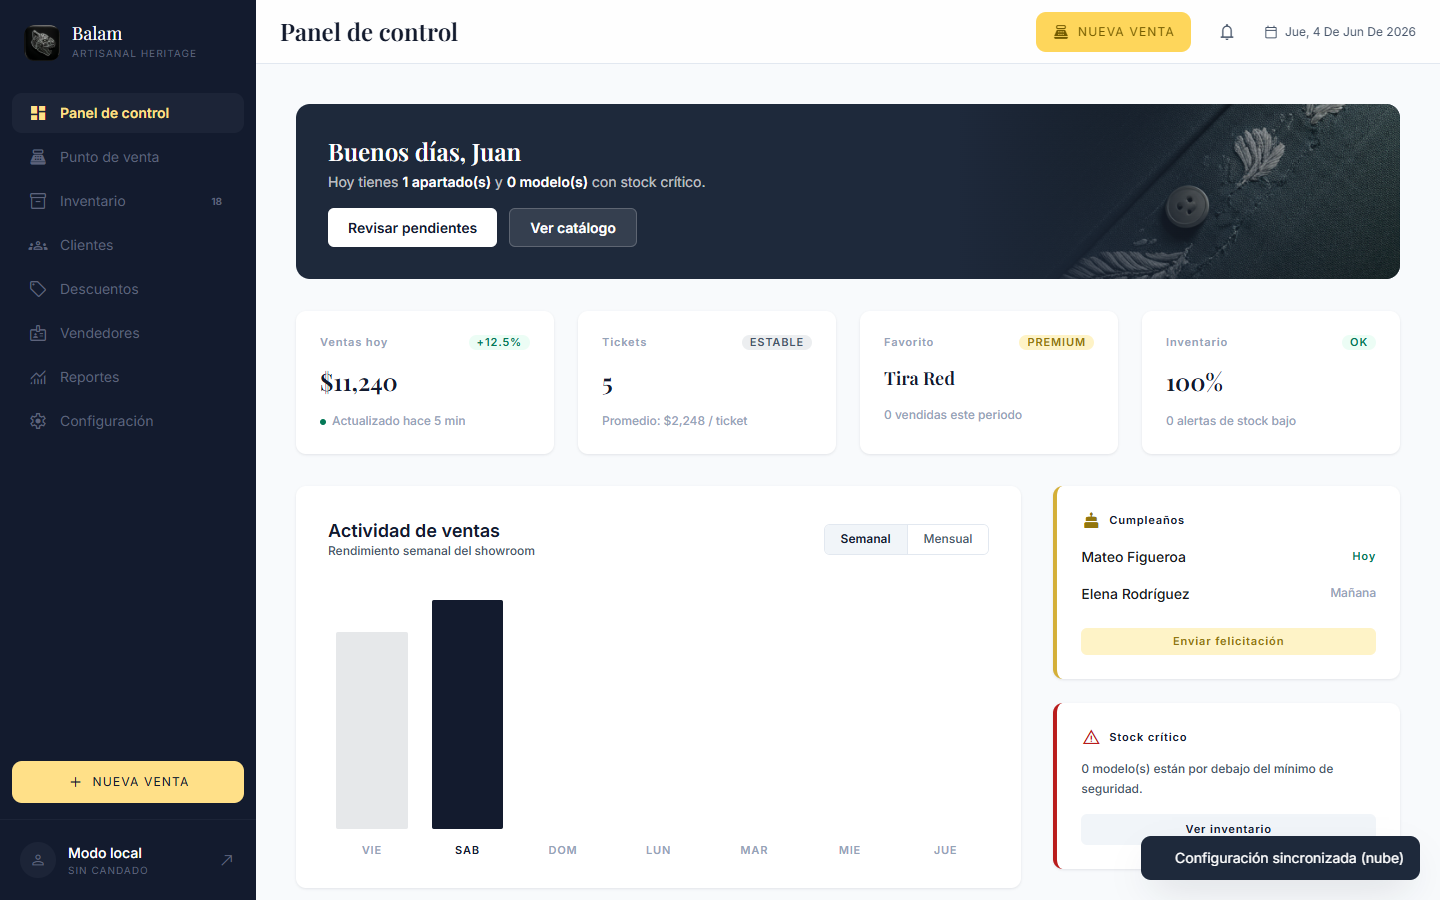
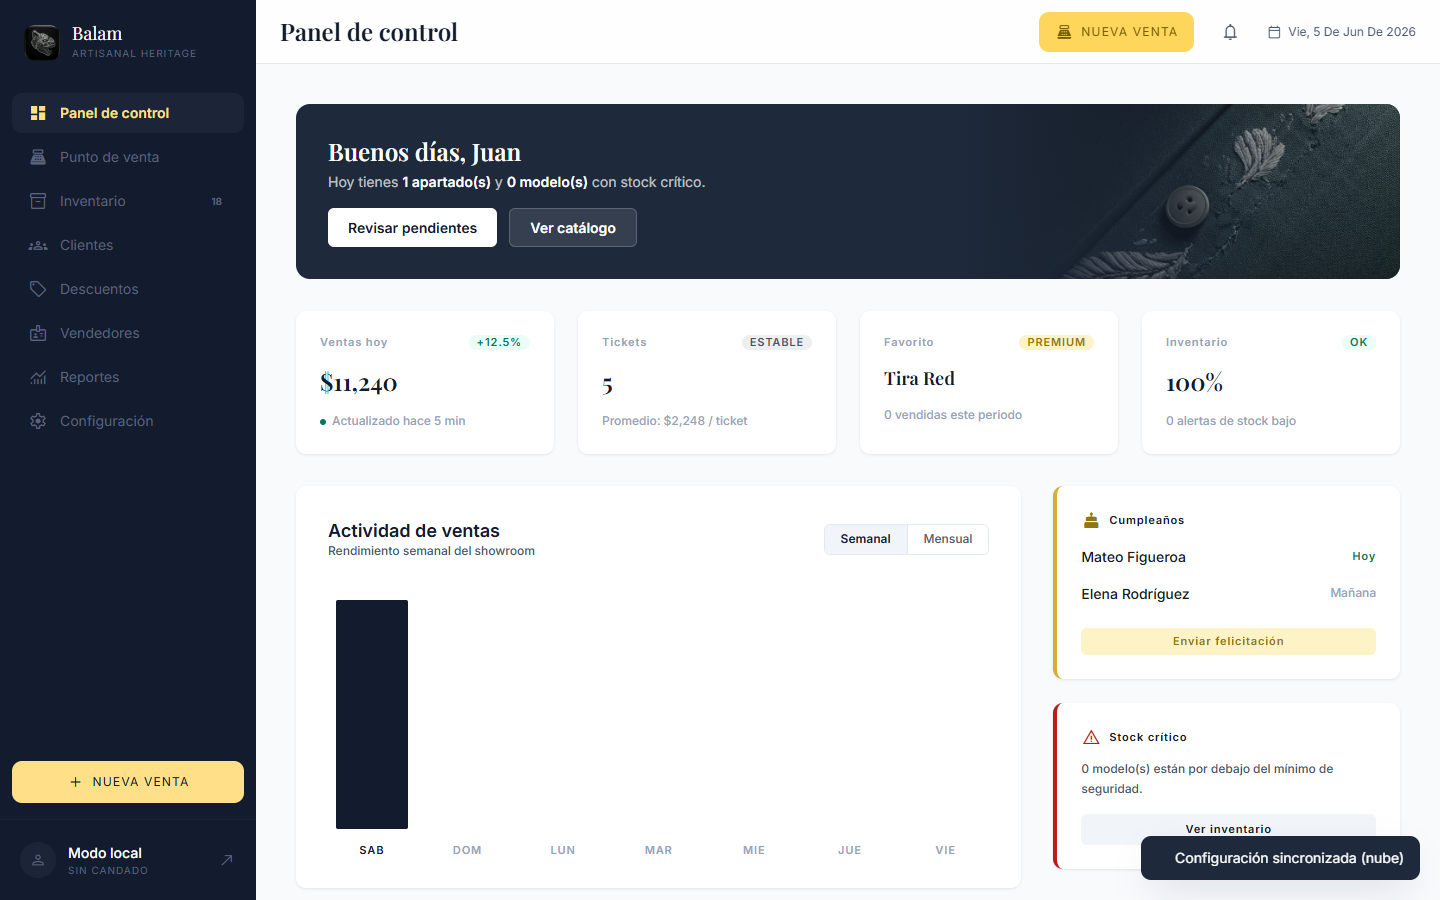
Comisiones: base neto/bruto configurable + liquidacion real + guards
Pantalla Configuracion > Vendedores > Comisiones: nuevo selector
"Base de calculo de la comision" (PRECIO NETO sin IVA | PRECIO BRUTO con IVA)
via componente CfgSeg. Ajuste commission.base (config.jsx, default 'neto').

#4 recordSale ahora normaliza el total a neto/bruto segun tax.included e
ivaPct y aplica el % del vendedor sobre la base elegida. Verificado:
neto = total/1.16 x pct, bruto = total x pct; identico en ambos modos de IVA.
#6 La venta guarda comision + comisionBase; SellerDetail muestra el monto
real guardado (no recalcula con el % actual). Refleja en sellers.jsx y
reports.jsx (leen comisionAcum, ya consistente).
#5 Guard meta=0: metaPct/metaHit evitan NaN/Infinity (admin y vendedores
sin meta muestran 0%).
#1 "Liquidar comision" ahora es real: D.liquidarComision pone comisionAcum
en 0, persiste y sincroniza; boton deshabilitado si no hay saldo; refresca
la pantalla. Antes solo mostraba un toast.

Pruebas: test-commission.mjs (10 asserts, formula neto/bruto bajo ambos IVA)
y e2e con recordSale real (neto 32.76, bruto 38.00, liquidacion a 0, guard
meta=0). Bundle offline reconstruido + index.html. Cloud sync neutralizado
en pruebas; commission.base en nube confirmado en 'neto'.

Pendiente (no quirurgico, diferido): #2 corte/reset mensual de
ventasMes/comisionAcum; #3 acreditar comision al pagar un apartado.

diff --git a/balam/sellers.jsx b/balam/sellers.jsx
@@ -17,11 +17,27 @@
     return hit ? hit.label : (roles.length ? roles[roles.length - 1].label : '—');
   };
 
+  // Avance de meta con guardia contra meta=0 (evita NaN/Infinity en admin y vendedores sin meta).
+  const metaPct = (s) => (Number(s.metaMes) > 0 ? Math.round((s.ventasMes / s.metaMes) * 100) : 0);
+  const metaHit = (s) => Number(s.metaMes) > 0 && s.ventasMes >= s.metaMes;
+  // Comisión de una venta atribuida: usa el monto guardado al cobrar (refleja la base neto/bruto y el %
+  // vigentes en ese momento); si es una venta vieja/sincronizada sin el dato, la estima con el % actual.
+  const saleComm = (v, s) => (v && v.comision != null ? Number(v.comision) : (Number(v.total) || 0) * (s.comisionPct || 0) / 100);
+
   function SellersScreen() {
     const [detail, setDetail] = useState(null);
     const [view, setView] = useState('grid');
+    const [, bump] = useState(0);
+    const refresh = () => bump(v => v + 1);
     const totalComision = D.sellers.reduce((a, s) => a + s.comisionAcum, 0);
     const totalVentas = D.sellers.reduce((a, s) => a + s.ventasMes, 0);
+
+    function liquidar(s) {
+      if (!window.confirm('¿Liquidar la comisión acumulada de ' + s.nombre + ' (' + fmt(s.comisionAcum) + ')? Quedará en cero.')) return;
+      const monto = D.liquidarComision(s.id);
+      setDetail(null); refresh();
+      toast('Comisión de ' + s.nombre + ' liquidada: ' + fmt(monto || 0), 'var(--accent)');
+    }
 
     return h('div', { className: 'flex-1 overflow-y-auto bg-background font-body text-on-surface' },
       h('div', { className: 'p-10 max-w-container-max mx-auto' }, [
@@ -68,16 +84,16 @@
               [['grid', 'Grid'], ['list', 'Lista']].map(([id, l]) => h('button', { key: id, className: 'px-3 py-1 text-caption uppercase tracking-tighter rounded ' + (view === id ? 'bg-primary text-on-primary' : 'text-on-surface-variant hover:bg-surface-container-low'), onClick: () => setView(id) }, l))),
           ]),
           view === 'grid'
-            ? h('div', { key: 'g', className: 'grid grid-cols-1 xl:grid-cols-2 gap-8' }, D.sellers.map(s => h(SellerCard, { key: s.id, s, onOpen: () => setDetail(s) })))
+            ? h('div', { key: 'g', className: 'grid grid-cols-1 xl:grid-cols-2 gap-8' }, D.sellers.map(s => h(SellerCard, { key: s.id, s, onOpen: () => setDetail(s), onLiquidar: () => liquidar(s) })))
             : h(SellerList, { key: 'l', sellers: D.sellers, onOpen: setDetail }),
         ]),
-        detail && h(SellerDetail, { key: 'd', s: detail, onClose: () => setDetail(null) }),
+        detail && h(SellerDetail, { key: 'd', s: detail, onClose: () => setDetail(null), onLiquidar: () => liquidar(detail) }),
       ]));
   }
 
-  function SellerCard({ s, onOpen }) {
-    const pct = Math.round((s.ventasMes / s.metaMes) * 100);
-    const meta = s.ventasMes >= s.metaMes;
+  function SellerCard({ s, onOpen, onLiquidar }) {
+    const pct = metaPct(s);
+    const meta = metaHit(s);
     return h('div', { className: 'bg-surface rounded-lg overflow-hidden transition-all duration-300 hover:-translate-y-0.5 ' + SHADOW + ' ' + SHADOW_HOVER }, [
       h('div', { key: 'b', className: 'p-8 flex items-start gap-8' }, [
         h('div', { key: 'av', className: 'w-24 h-32 flex items-center justify-center border border-outline-variant shrink-0 rounded', style: { background: s.color + '1a' } },
@@ -111,7 +127,7 @@
       ]),
       h('div', { key: 'f', className: 'px-8 py-4 bg-surface-container-low/50 border-t border-outline-variant flex justify-between items-center' }, [
         h('button', { key: 'd', className: 'text-on-surface-variant hover:text-primary text-overline uppercase tracking-[0.2em] flex items-center group', onClick: onOpen }, [h(MS, { key: 'i', name: 'arrowUpRight', size: 16, className: 'mr-2 group-hover:translate-x-0.5 transition-transform' }), 'Detalles de ventas']),
-        h('button', { key: 'l', className: 'text-primary text-overline uppercase tracking-[0.2em] font-bold hover:opacity-70', onClick: () => toast('Comisión de ' + s.nombre + ' liquidada', 'var(--accent)') }, 'Liquidar comisión'),
+        h('button', { key: 'l', className: 'text-primary text-overline uppercase tracking-[0.2em] font-bold hover:opacity-70 disabled:opacity-30 disabled:cursor-not-allowed', disabled: !(s.comisionAcum > 0), onClick: onLiquidar }, 'Liquidar comisión'),
       ]),
     ]);
   }
@@ -122,7 +138,7 @@
         h('thead', { key: 'h' }, h('tr', { className: 'bg-surface-container/50 border-b border-outline-variant' },
           [['Vendedor', ''], ['Comisión', ''], ['Ventas', 'text-right'], ['Meta', 'text-right'], ['', '']].map(([c, al], i) => h('th', { key: i, className: 'px-6 py-4 text-overline uppercase tracking-wider font-semibold text-on-surface-variant/80 ' + al }, c)))),
         h('tbody', { key: 'b', className: 'divide-y divide-outline-variant' }, sellers.map(s => {
-          const pct = Math.round((s.ventasMes / s.metaMes) * 100);
+          const pct = metaPct(s);
           return h('tr', { key: s.id, className: 'hover:bg-surface-container transition-colors cursor-pointer', onClick: () => onOpen(s) }, [
             h('td', { key: 'n', className: 'px-6 py-4' }, h('div', { className: 'flex items-center gap-3' }, [
               h('span', { key: 'a', className: 'w-9 h-9 rounded-full flex items-center justify-center text-overline font-bold text-white', style: { background: s.color } }, s.iniciales),
@@ -130,18 +146,18 @@
             ])),
             h('td', { key: 'c', className: 'px-6 py-4 text-body' }, s.comisionPct + '%'),
             h('td', { key: 'v', className: 'px-6 py-4 text-right font-headline text-base text-primary' }, fmt(s.ventasMes).replace('.00', '')),
-            h('td', { key: 'm', className: 'px-6 py-4 text-right text-body ' + (s.ventasMes >= s.metaMes ? 'text-primary font-semibold' : 'text-on-surface-variant') }, pct + '%'),
+            h('td', { key: 'm', className: 'px-6 py-4 text-right text-body ' + (metaHit(s) ? 'text-primary font-semibold' : 'text-on-surface-variant') }, pct + '%'),
             h('td', { key: 'x', className: 'px-6 py-4 text-right' }, h(MS, { name: 'chevRight', size: 18, className: 'text-on-surface-variant/40' })),
           ]);
         })),
       ]));
   }
 
-  function SellerDetail({ s, onClose }) {
+  function SellerDetail({ s, onClose, onLiquidar }) {
     const ventas = D.sales.filter(v => v.vendedor === s.nombre);
-    const pct = Math.round((s.ventasMes / s.metaMes) * 100);
+    const pct = metaPct(s);
     const footer = [
-      h('button', { key: 'l', className: 'inline-flex items-center gap-2 px-5 h-11 bg-primary text-on-primary text-caption font-bold uppercase tracking-widest rounded-lg hover:opacity-90 transition', onClick: () => toast('Comisión de ' + s.nombre + ' liquidada', 'var(--accent)') }, [h(MS, { key: 'i', name: 'cash', size: 16 }), 'Liquidar comisión']),
+      h('button', { key: 'l', className: 'inline-flex items-center gap-2 px-5 h-11 bg-primary text-on-primary text-caption font-bold uppercase tracking-widest rounded-lg hover:opacity-90 transition disabled:opacity-30 disabled:cursor-not-allowed', disabled: !(s.comisionAcum > 0), onClick: onLiquidar }, [h(MS, { key: 'i', name: 'cash', size: 16 }), 'Liquidar comisión']),
     ];
     return h(Modal, { title: 'Vendedor', onClose, footer, large: true }, [
       h('div', { key: 'h', className: 'flex items-center gap-4' }, [
@@ -163,7 +179,7 @@
           h('td', { key: 'f', className: 'px-3 py-2 font-medium text-primary' }, v.folio),
           h('td', { key: 'c', className: 'px-3 py-2 text-body' }, v.cliente),
           h('td', { key: 't', className: 'px-3 py-2 text-right font-headline text-body' }, fmt(v.total).replace('.00', '')),
-          h('td', { key: 'k', className: 'px-3 py-2 text-right font-headline text-body text-gold-text' }, fmt(v.total * s.comisionPct / 100).replace('.00', '')),
+          h('td', { key: 'k', className: 'px-3 py-2 text-right font-headline text-body text-gold-text' }, fmt(saleComm(v, s)).replace('.00', '')),
         ]))),
       ])) : h('div', { key: 'e', className: 'text-center text-on-surface-variant py-8' }, 'Sin ventas en el periodo'),
     ]);

diff --git a/balam/data.jsx b/balam/data.jsx
@@ -259,16 +259,31 @@
       const c = clients.find(x => x.id === client.id);
       if (c) { c.compras = (c.compras || 0) + 1; c.total = (c.total || 0) + total; c.ultima = fecha.slice(0, 10); saveClients(); }
     }
-    // 3) Vendedores (reparto de venta y comisión)
+    // 3) Vendedores (reparto de venta y comisión).
+    //    Base de comisión configurable (commission.base): 'neto' = sin IVA, 'bruto' = con IVA.
+    //    `total` puede incluir o no IVA según tax.included → lo normalizamos a neto/bruto antes de aplicar el %.
     const ids = (sellerIds && sellerIds.length) ? sellerIds : [];
+    let comisionVenta = 0;
     if (cobrada && ids.length) {
       const share = total / ids.length;
+      const ivaPct = Number(window.CONFIG.get('tax.ivaPct')) || 0;
+      const incl = !!window.CONFIG.get('tax.included');
+      const neto = incl ? share / (1 + ivaPct / 100) : share;
+      const bruto = incl ? share : share * (1 + ivaPct / 100);
+      const base = window.CONFIG.get('commission.base') === 'bruto' ? bruto : neto;
       ids.forEach(id => {
         const s = sellers.find(x => x.id === id);
-        if (s) { s.ventasMes = (s.ventasMes || 0) + share; s.ventasNum = (s.ventasNum || 0) + 1; s.comisionAcum = (s.comisionAcum || 0) + share * (s.comisionPct || 0) / 100; }
+        if (s) {
+          const c = base * (s.comisionPct || 0) / 100;
+          comisionVenta += c;
+          s.ventasMes = (s.ventasMes || 0) + share;
+          s.ventasNum = (s.ventasNum || 0) + 1;
+          s.comisionAcum = (s.comisionAcum || 0) + c;
+        }
       });
       saveSellers();
     }
+    comisionVenta = Math.round(comisionVenta * 100) / 100;
     // 4) Registro de venta (al frente = más reciente). Precio cobrado = con descuentos del POS.
     const primary = ids.map(id => (sellers.find(x => x.id === id) || {}).nombre).filter(Boolean);
     const unitOf = l => (window.PROMOS ? window.PROMOS.lineUnit(l.p, l.talla).unit : (Number(l.p.precio) || 0));
@@ -277,12 +292,24 @@
       folio, fecha, cliente: client ? client.nombre : 'Público en general',
       vendedor: primary[0] || '—', vendedores: ids.slice(),
       items: itemCount, total, metodo, estado, descuento: Math.max(0, subtotalOrig - total),
+      comision: comisionVenta, comisionBase: window.CONFIG.get('commission.base') || 'neto',
       lineas: ticket.map(l => ({ sku: l.p.sku, nombre: l.p.nombre, talla: l.talla, qty: l.qty, precio: unitOf(l), precioOrig: Number(l.p.precio) || 0 })),
     };
     sales.unshift(sale);
     saveSales();
     if (window.STORE && window.STORE.pushSale) { try { window.STORE.pushSale(sale); } catch (e) { /* offline */ } }
     return sale;
+  }
+
+  // Liquida (paga) la comisión acumulada de un vendedor: la pone en cero y persiste/sincroniza.
+  // Devuelve el monto liquidado (para el mensaje), o null si el vendedor no existe.
+  function liquidarComision(id) {
+    const s = sellers.find(x => x.id === id);
+    if (!s) return null;
+    const monto = Number(s.comisionAcum) || 0;
+    s.comisionAcum = 0;
+    saveSellers();
+    return monto;
   }
 
   // ---- Usuarios (= personas en sellers; admin y/o vendedor) ----
@@ -355,7 +382,7 @@
     products, sellers, clients, sales, movements, promos,
     sku, totalStock, hydrate, mkStock, emptyStock,
     saveProducts, saveSellers, saveClients, saveSales, saveMovements, savePromos,
-    recordSale, nextFolio, stockOf, resetProducts, applyRemote,
+    recordSale, nextFolio, stockOf, resetProducts, applyRemote, liquidarComision,
     addUser, updateUser, removeUser,
     addPromo, updatePromo, removePromo, duplicatePromo,
   };

diff --git a/balam/settings.jsx b/balam/settings.jsx
@@ -132,6 +132,22 @@
       }, h('span', { className: 'absolute top-0.5 w-5 h-5 bg-surface rounded-full shadow transition-all ' + (on ? 'left-[22px]' : 'left-0.5') })),
     ]);
   }
+  // Selector segmentado (dos o más opciones excluyentes) ligado a un ajuste de CONFIG.
+  function CfgSeg({ k, title, desc, options }) {
+    const cur = C.get(k);
+    return h('div', { key: k, className: 'py-3 border-t border-outline-variant/40 first:border-t-0' }, [
+      h('div', { key: 't', className: 'text-body font-medium text-primary' }, title),
+      desc && h('div', { key: 'd', className: 'text-caption text-on-surface-variant mt-0.5 mb-2.5' }, desc),
+      h('div', { key: 's', className: 'inline-flex p-1 bg-surface-container-highest rounded-lg gap-1' },
+        options.map(o => h('button', {
+          key: o.value,
+          className: 'px-4 py-1.5 rounded-md text-caption font-semibold uppercase tracking-wider transition-colors ' +
+            (cur === o.value ? 'text-primary shadow-e1' : 'text-on-surface-variant hover:text-primary'),
+          style: cur === o.value ? { background: '#fff' } : null,
+          onClick: () => C.setSetting(k, o.value),
+        }, o.label))),
+    ]);
+  }
 
   // Logotipo de la tienda (compartido: inicio/sidebar + ticket). Se guarda como data URL
   // en CONFIG (store.logo) → persiste local y sincroniza a la nube como ajuste.
@@ -236,6 +252,12 @@
           h(CfgText, { key: 'm', k: 'commission.monthlyGoal', label: 'Meta mensual ($)', type: 'number' }),
           h(CfgText, { key: 'o', k: 'commission.bonus', label: 'Bono al superar meta ($)', type: 'number' }),
         ]),
+        h(CfgSeg, {
+          key: 'base', k: 'commission.base',
+          title: 'Base de cálculo de la comisión',
+          desc: 'Define si el % del vendedor se aplica sobre el precio sin IVA (neto) o sobre el total cobrado con IVA (bruto). Solo afecta ventas nuevas.',
+          options: [{ value: 'neto', label: 'Precio neto (sin IVA)' }, { value: 'bruto', label: 'Precio bruto (con IVA)' }],
+        }),
       ]),
       h(GlassCard, { key: 'rep', className: 'p-6' }, [
         h(SerifHeading, { key: 't', className: 'mb-4', children: 'Reportes' }),

diff --git a/balam/config.jsx b/balam/config.jsx
@@ -123,6 +123,7 @@
     'commission.monthlyGoal': 200000,
     'commission.bonus': 2000,
     'commission.auto': true,
+    'commission.base': 'neto', // 'neto' (sobre precio sin IVA) | 'bruto' (sobre el total con IVA)
     'report.marginPct': 33,
     'discount.minMarginPct': 45,
     'folio.prefix': 'BG-',